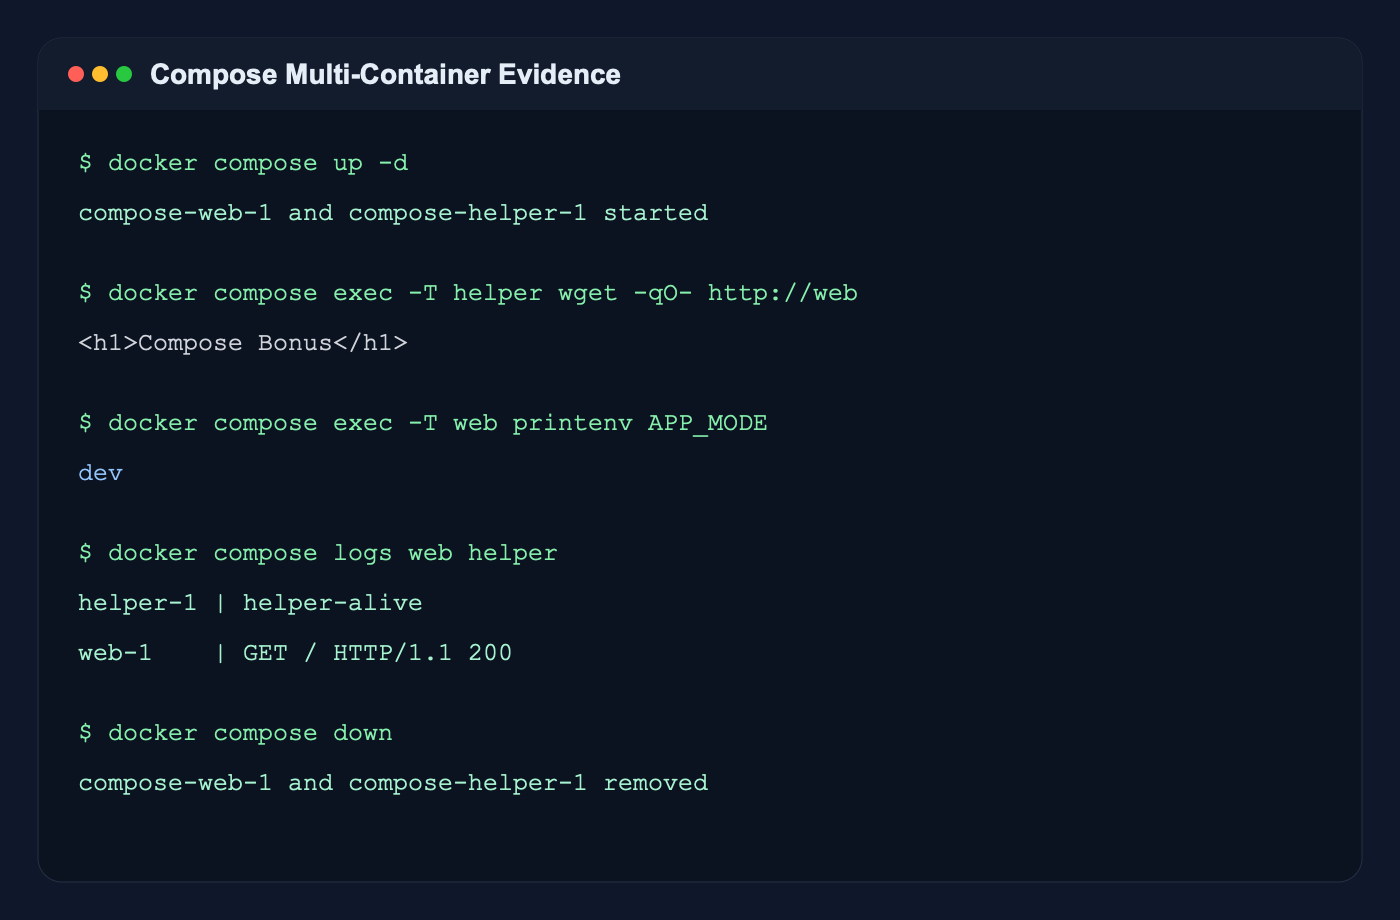
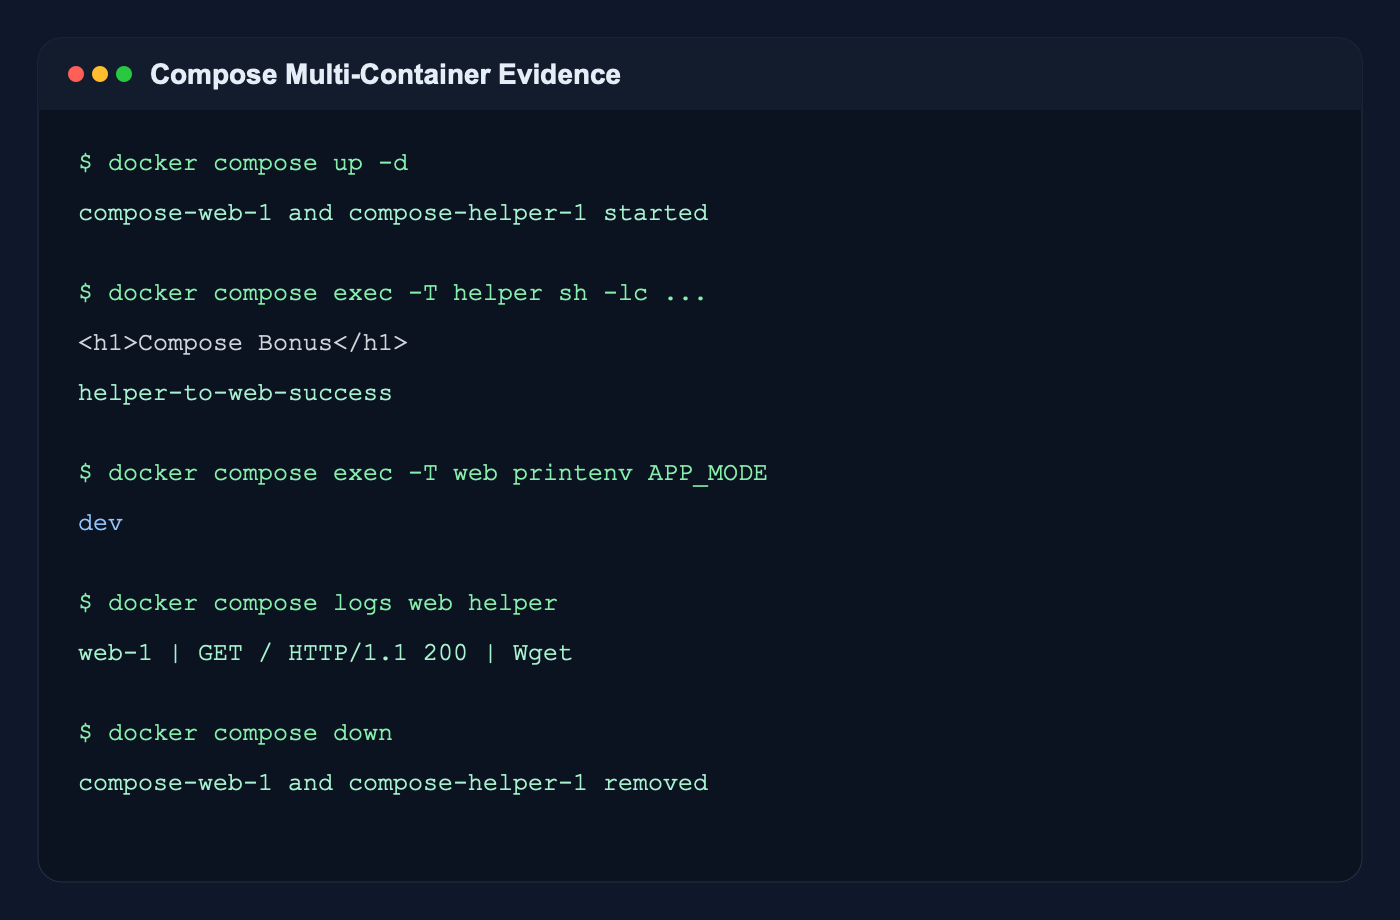
docs: strengthen compose networking proof

diff --git a/README.md b/README.md
@@ -858,13 +858,9 @@ $ docker compose down
 ```bash
 $ docker compose up -d
 
-$ docker compose ps
-NAME               IMAGE          COMMAND                  SERVICE   STATUS   PORTS
-compose-helper-1   busybox:1.36   "sh -c 'while true; …"   helper    Up
-compose-web-1      nginx:alpine   "/docker-entrypoint.…"   web       Up       0.0.0.0:8082->80/tcp
-
-$ docker compose exec -T helper wget -qO- http://web
+$ docker compose exec -T helper sh -lc 'wget -qO- http://web && echo helper-to-web-success'
 <h1>Compose Bonus</h1>
+helper-to-web-success
 
 $ docker compose exec -T web printenv APP_MODE
 dev
@@ -877,11 +873,10 @@ $ docker compose down
 명령줄 설명:
 
 - `docker compose up -d` 는 `web`, `helper` 두 서비스를 한 번에 실행한다.
-- `docker compose ps` 결과에서 `helper`, `web` 두 컨테이너가 모두 `Up` 상태인지 확인했다.
-- `docker compose exec -T helper wget -qO- http://web` 는 `helper` 컨테이너 내부에서 `web` 서비스 이름으로 HTTP 요청을 보내는 실험이다. 현재 CLI 환경은 TTY 가 없어서 `exec -T` 옵션으로 비대화형 실행을 사용했다.
-- `wget -qO- http://web` 결과로 `<h1>Compose Bonus</h1>` 가 출력되었으므로, Compose 기본 네트워크에서 서비스 이름 기반 통신이 가능함을 확인했다.
+- `docker compose exec -T helper sh -lc 'wget -qO- http://web && echo helper-to-web-success'` 는 `helper` 컨테이너 내부에서 `web` 서비스 이름으로 HTTP 요청을 보내고, 요청이 끝나면 성공 문구를 추가로 출력하는 실험이다. 현재 CLI 환경은 TTY 가 없어서 `exec -T` 옵션으로 비대화형 실행을 사용했다.
+- 이 명령의 결과로 `<h1>Compose Bonus</h1>` 와 `helper-to-web-success` 가 함께 출력되었으므로, `helper` 가 Compose 기본 네트워크를 통해 `web` 에 실제로 접근했음을 확인했다.
 - `docker compose exec -T web printenv APP_MODE` 결과가 `dev` 이므로 `.env` 의 환경변수가 컨테이너 내부로 전달되었음을 확인했다.
-- `docker compose logs web helper` 는 웹 서비스 로그와 보조 서비스 로그를 함께 확인하는 운영 명령이다.
+- `docker compose logs web helper` 에서 `web-1 ... "GET / HTTP/1.1" 200 ... "Wget"` 로그가 남았으므로, `helper` 의 `wget` 요청이 실제로 `web` 에 도달했다는 점을 두 번째로 확인할 수 있다.
 - 마지막 `docker compose down` 으로 멀티 컨테이너 실습 환경을 다시 정리했다.
 
 증거 이미지:
@@ -938,6 +933,6 @@ $ docker compose down
 ### 12-5. 핵심 검증 결과
 
 - `curl http://localhost:8082` 로 단일 서비스 실행 후 웹 응답을 확인했다.
-- `docker compose exec -T helper wget -qO- http://web` 로 멀티 컨테이너 상태에서 서비스 이름 기반 통신이 성공함을 확인했다.
+- `docker compose exec -T helper sh -lc 'wget -qO- http://web && echo helper-to-web-success'` 결과와 `web` 로그의 `Wget 200` 흔적으로, 멀티 컨테이너 상태에서 서비스 이름 기반 통신이 성공함을 확인했다.
 - `docker compose exec -T web printenv APP_MODE` 결과가 `dev` 에서 `prod` 로 바뀌는 것을 확인했다.
 - `docker compose up`, `docker compose ps`, `docker compose logs`, `docker compose down` 흐름을 실제 로그로 남겨 Compose 운영 명령을 검증했다.
